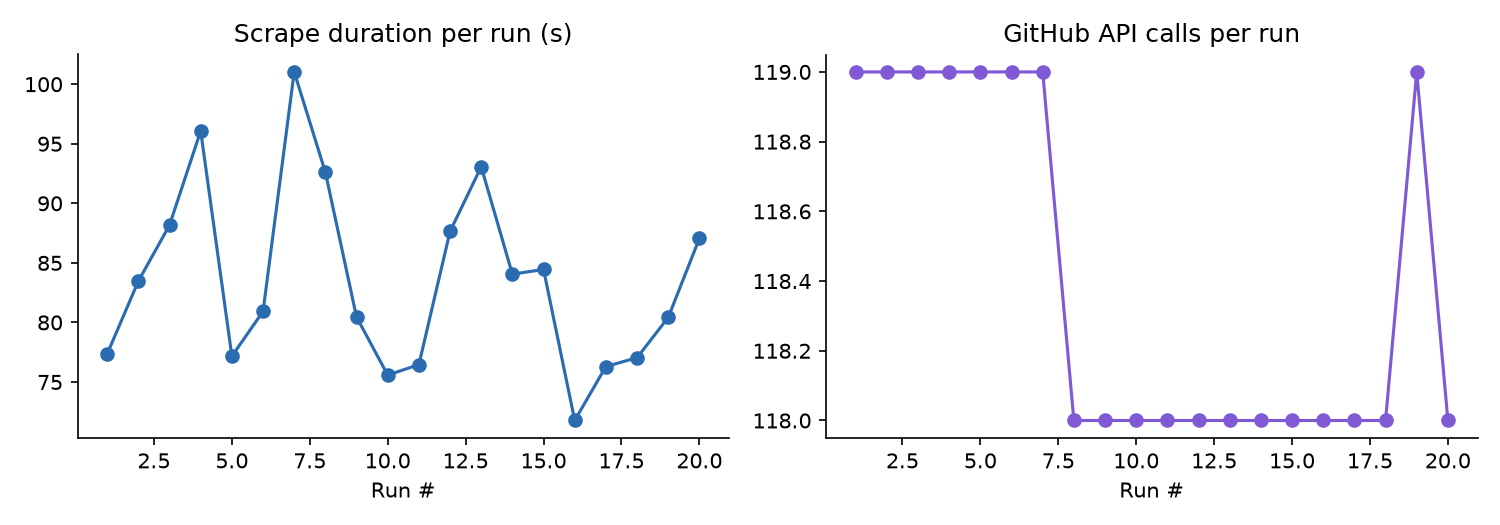
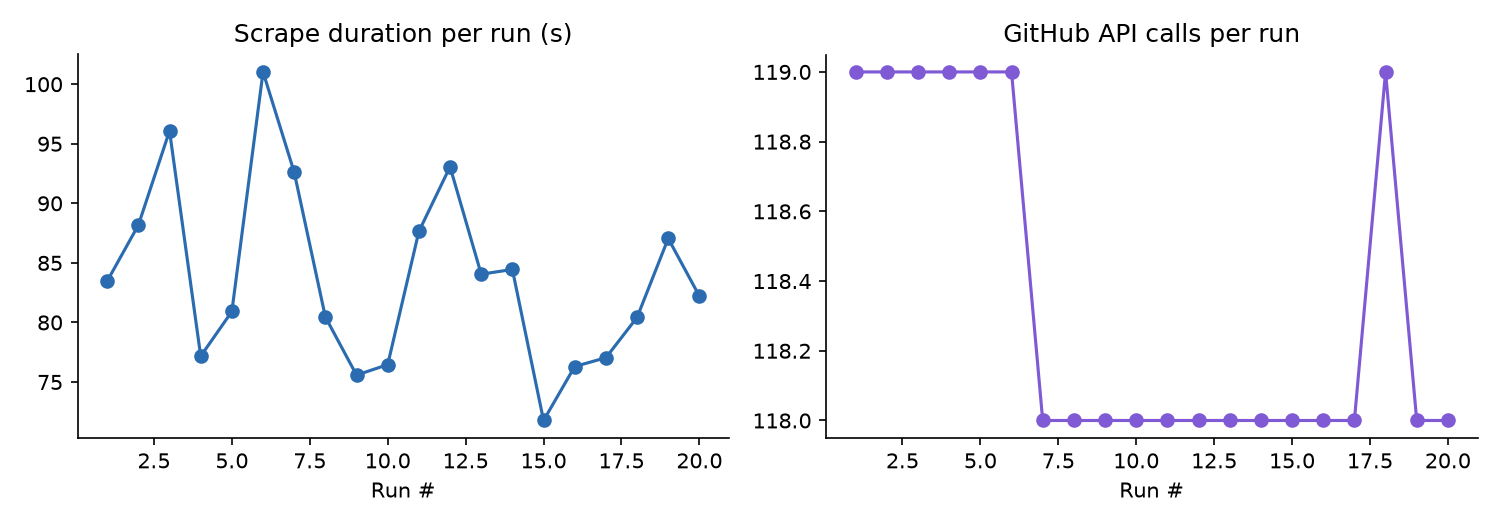
Weekly issue tracker refresh

diff --git a/README.md b/README.md
@@ -81,7 +81,7 @@ See [CONTRIBUTING.md](CONTRIBUTING.md) for the full contributor workflow — inc
 
 <!-- TRACKER:START -->
 
-_Last updated: 2026-10-16 15:32 UTC_
+_Last updated: 2026-10-16 18:58 UTC_
 
 _Tracking **18** upstream repos, **381** relevant open issues._
 
@@ -195,12 +195,12 @@ _Tracking **18** upstream repos, **381** relevant open issues._
 
 | Score | Issue | Labels | Comments | Updated |
 |---|---|---|---|---|
+| ★★★☆☆ | [#142957](https://github.com/kubernetes/kubernetes/issues/142957) Don't check featuregates directly in E2E tests | kind/bug, help wanted, sig/testing, needs-triage | 4 | 2026-10-16 |
 | ★★★☆☆ | [#140978](https://github.com/kubernetes/kubernetes/issues/140978) No e2e coverage for readiness probes during graceful pod termination | kind/bug, area/test, priority/backlog, area/kubelet, sig/node, help wanted, sig/testing, triage/accepted | 9 | 2026-10-15 |
 | ★★★☆☆ | [#143046](https://github.com/kubernetes/kubernetes/issues/143046) [Flaking Test] [It] [sig-node] HugepageAwareMemoryReporting [Feature:HugePages] with feature gate enabled should subtract hugepage capacity from memory.available [Disruptive] [Serial] [Slow] | sig/node, kind/flake, help wanted, priority/important-longterm, triage/accepted | 7 | 2026-10-15 |
 | ★★★☆☆ | [#138149](https://github.com/kubernetes/kubernetes/issues/138149) Migrate DRA components to support granular authorization on status updates | sig/network, sig/node, sig/auth, help wanted, good first issue, triage/accepted, wg/device-management | 89 | 2026-10-13 |
 | ★★★☆☆ | [#141200](https://github.com/kubernetes/kubernetes/issues/141200) [Flaking Test] [sig-node] [Feature:GPUDevicePlugin] Sanity test using nvidia-smi [Provider:aws,gce] should run nvidia-smi and cuda-demo-suite [Serial] | sig/node, kind/flake, help wanted, priority/important-longterm, triage/accepted | 7 | 2026-10-13 |
 | ★★★☆☆ | [#118172](https://github.com/kubernetes/kubernetes/issues/118172) kubelet parameter(eviction-max-pod-grace-period ), not work as expected like officical comment. | kind/bug, priority/backlog, kind/documentation, sig/node, help wanted, priority/important-longterm, good first issue, triage/accepted | 46 | 2026-10-13 |
-| ★★★☆☆ | [#142957](https://github.com/kubernetes/kubernetes/issues/142957) Don't check featuregates directly in E2E tests | kind/bug, help wanted, sig/testing, needs-triage | 3 | 2026-10-13 |
 | ★★★☆☆ | [#138226](https://github.com/kubernetes/kubernetes/issues/138226) [Flaking Test] [sig node] with swap stress LimitedSwap should be able to use more than the node memory capacity | sig/node, kind/flake, help wanted, triage/accepted | 10 | 2026-10-08 |
 | ★★★☆☆ | [#141786](https://github.com/kubernetes/kubernetes/issues/141786) [Flaking Test] restarted with a non-local redirect http liveness probe | sig/node, kind/flake, help wanted, priority/important-longterm, triage/accepted | 8 | 2026-10-08 |
 
@@ -297,7 +297,7 @@ _Tracking **18** upstream repos, **381** relevant open issues._
 
 <!-- METRICS:START -->
 
-_Last run: 2026-10-16 15:31 UTC, took **87.1s**, **118** GitHub API calls, **4882/5000** rate limit remaining._
+_Last run: 2026-10-16 18:56 UTC, took **82.2s**, **118** GitHub API calls, **4882/5000** rate limit remaining._
 
 ![Scrape metrics trend](assets/metrics_trend.png)
 
